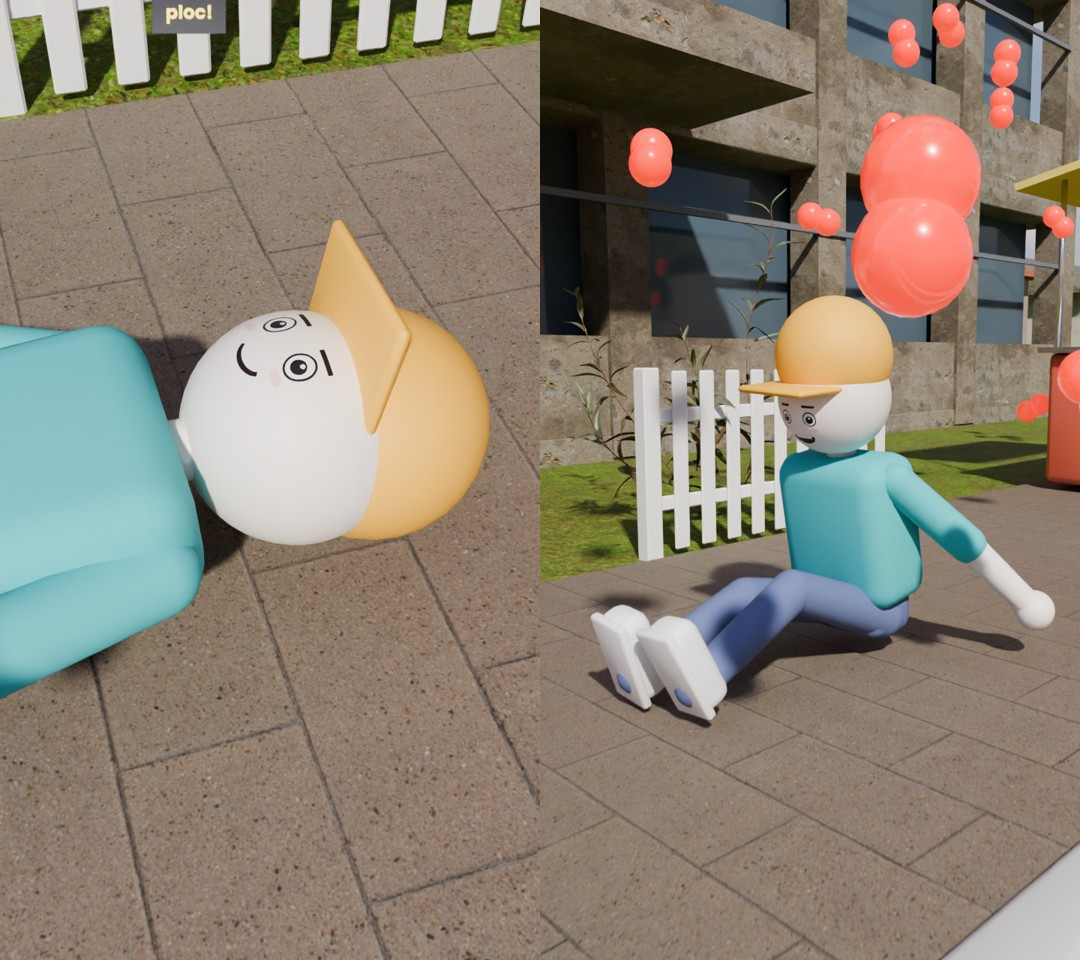
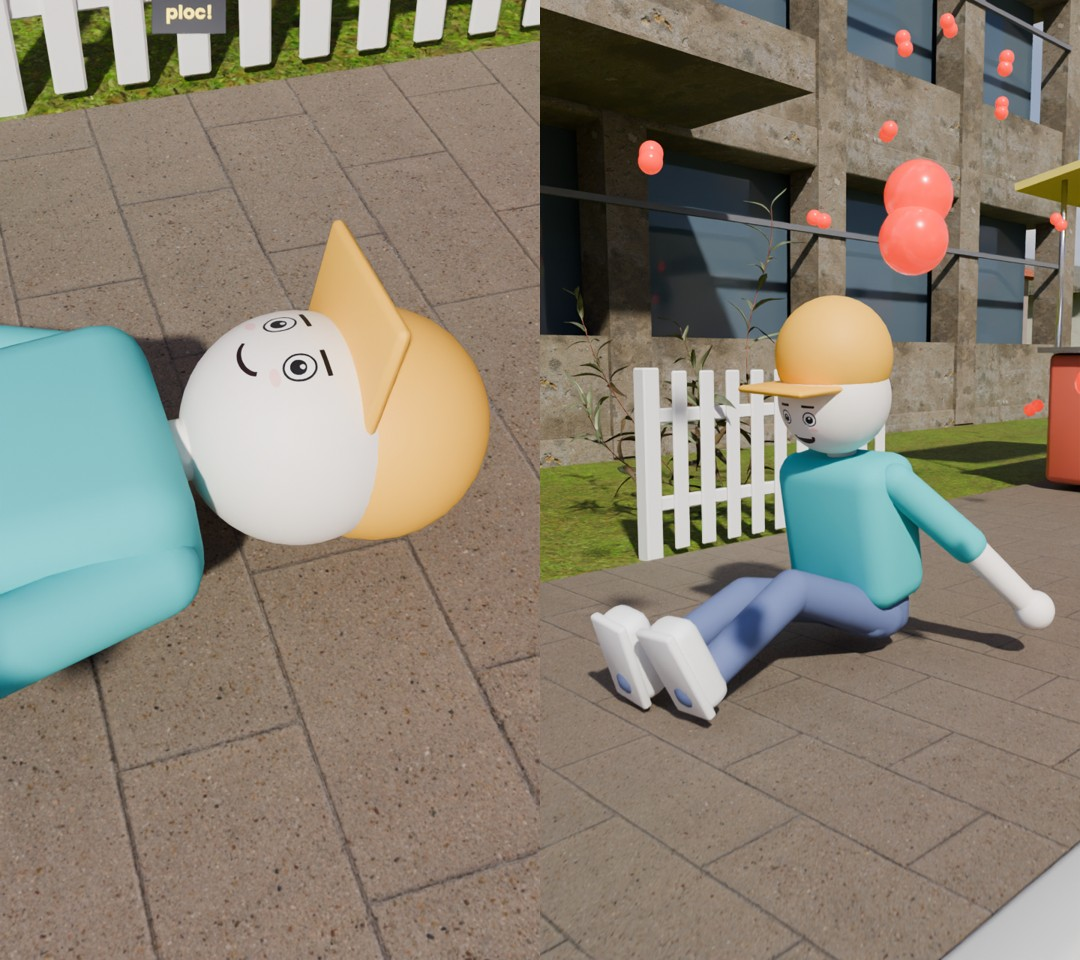
Vídeo 04: moléculas que voltam menores no fim
Claude-Session: https://claude.ai/code/session_01Adyz318NBz57nGHwGc8mF6

diff --git a/projeto_videos3d/v2/ep04/render.py b/projeto_videos3d/v2/ep04/render.py
@@ -129,7 +129,7 @@ if K == 'rua':
         for i in range(70):
             o = bpy.data.objects.new(f'o2volta{i}', None); o.instance_type = 'COLLECTION'; o.instance_collection = pO; B.link(o, RC)
             o.location = (P.TEO[0] + r.uniform(-6, 6), P.TEO[1] + r.uniform(-1.2, 2), r.uniform(0.6, 3.2)); o.rotation_euler = (r.uniform(0, 6), r.uniform(0, 6), r.uniform(0, 6))
-            items['back'].append((o, r.uniform(0, 0.4), r.uniform(0.18, 0.26)))
+            items['back'].append((o, r.uniform(0, 0.4), r.uniform(0.10, 0.15)))
 elif K == 'mol':
     items['mols'] = SC.build_molecules()
 elif K == 'ceu':
